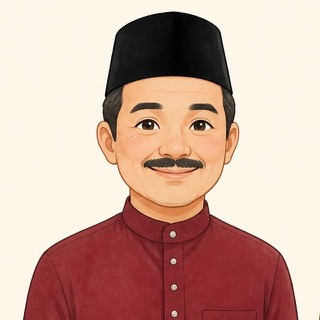
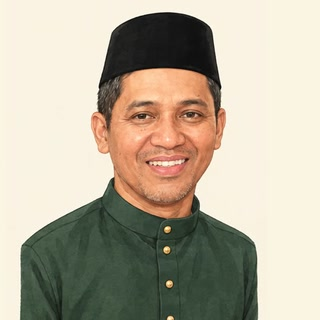
Use cartoon family portraits for contacts; switch music to Selamat Pengantin Baru (Saloma) from 0:01

diff --git a/index.html b/index.html
@@ -516,18 +516,18 @@
       groom: 'assets/photos/groom-kid.jpg'
     },
     music: {                                             // background music, played via hidden YouTube IFrame player
-      youtubeId: 'luhpG8uvtnQ',                          // YouTube video ID (the part after watch?v=)
-      startTime: 17                                      // seconds - where playback (and the loop restart) begins
+      youtubeId: 'rNtfLcPuNj4',                          // YouTube video ID (the part after watch?v=)
+      startTime: 1                                       // seconds - where playback (and the loop restart) begins
     },
     contacts: [                                         // phone in international format, digits only (60 = Malaysia)
       { name: 'Zulkhainain', role: { ms: 'Bapa Pengantin', en: "Groom's Father" }, phone: '601139962194',
-        avatar: 'assets/photos/icon-father.svg',
+        avatar: 'assets/family/father.jpg',
         msg: { ms: 'Semoga kehadiran dan doa restu tuan/puan menyerikan majlis perkahwinan putera kami <3', en: 'May your presence and blessings brighten the wedding of our son <3' } },
       { name: 'Roshayati', role: { ms: 'Ibu Pengantin', en: "Groom's Mother" }, phone: '601163349486',
-        avatar: 'assets/photos/icon-mother.svg',
+        avatar: 'assets/family/mother.jpg',
         msg: { ms: 'Kehadiran dan doa restu anda amat kami hargai <3', en: 'Your presence and prayers mean a great deal to us <3' } },
       { name: 'Haziq', role: { ms: 'Adik Pengantin', en: "Groom's Brother" }, phone: '60173980429',
-        avatar: 'assets/photos/icon-brother.svg',
+        avatar: 'assets/family/brother.jpg',
         msg: { ms: 'Jom raikan hari bahagia Akim! kehadiran korang amat kami alu alukan.', en: "Come celebrate Akim's big day! We'd love to have you there." } }
     ],
     mapsUrl: 'https://www.google.com/maps/search/?api=1&query=ISTAC-IIUM%2C%2024%20Persiaran%20Tuanku%20Syed%20Sirajuddin%2C%2050480%20Kuala%20Lumpur',

diff --git a/POST-BUILD.md b/POST-BUILD.md
@@ -8,8 +8,8 @@ Edit the `WEDDING` settings block near the bottom of `index.html`:
   Currently `bride-kid.jpg` / `groom-kid.jpg`.
 - `music.youtubeId` / `music.startTime` — YouTube video ID and start-time (seconds) for the background music, played via a hidden YouTube IFrame player.
 - `contacts` — 3 family contacts: `name`, `role` (BM + EN), `phone` in international digits (e.g. `60123456789`).
-  Each gets a WhatsApp button (pre-filled greeting) and a Call button. Avatars are flat
-  cartoon-icon SVGs (`assets/photos/icon-father.svg` etc.), not real photos.
+  Each gets a WhatsApp button (pre-filled greeting) and a Call button. Avatars are
+  320×320 cartoon portraits in `assets/family/` (`father.jpg`, `mother.jpg`, `brother.jpg`).
 - `mapsUrl`, `calendarUrl`, `start` (countdown target, Malaysia time).
 
 ## RSVP → serverless proxy → Google Sheet
